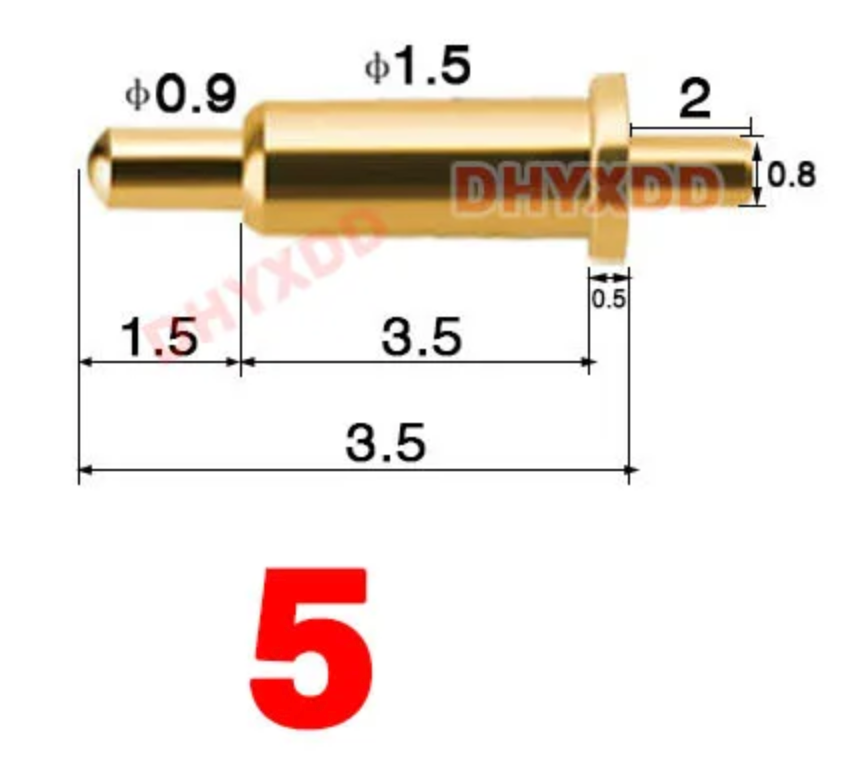
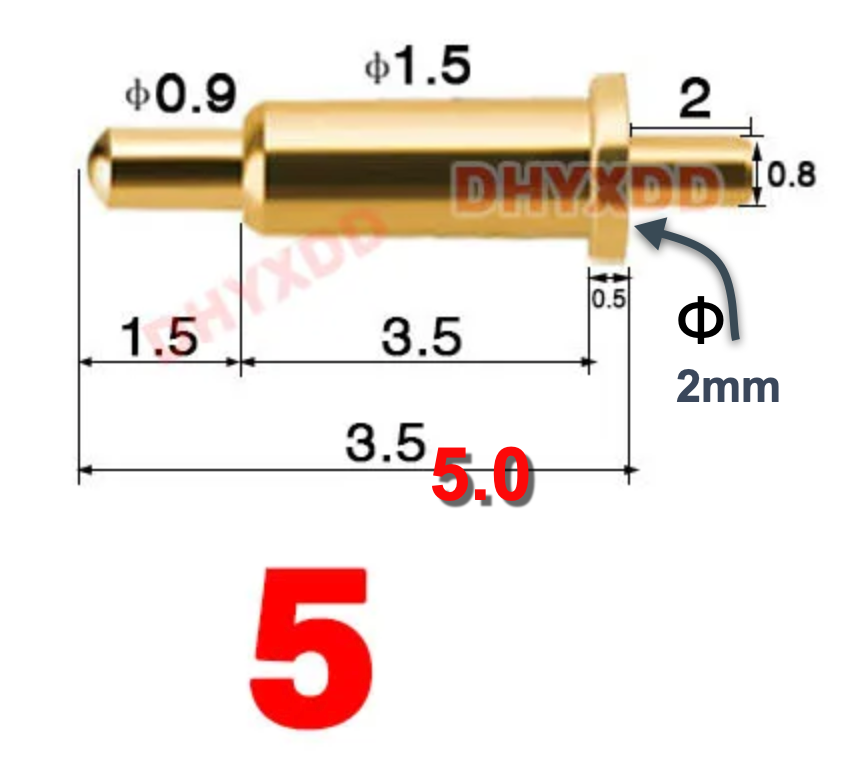
Added documentation.

Changed region(s): [[0.7171, 0.2791, 0.9042, 0.5271], [0.4988, 0.5581, 0.6236, 0.6512]]

diff --git a/README.md b/README.md
@@ -1,2 +1,63 @@
-# greenpak_pogo
-A Pogo pins adapter for in-circuit programming of Renesa's GreenPAK devices.
+# GreenPAK Programming Pogo Probe
+
+This project provides a standard footprint and a pogo probe for in-circuit programming of Renesas GreenPAK 
+devices. This can be used for example in production after populating the board with factory reset GreenPAK devices.
+
+<br>
+
+<img  src="https://raw.githubusercontent.com/zapta/greenpak_pogo/main/www/greenpak_pogo.png"
+      style="display: block;margin-left: auto;margin-right: auto;width: 80%;" />
+
+Highlights:
+
+* Small footprint.
+* In expensive (e.g. compared to Tag Connect)
+* Can be used with any QWIIC masters as a probrammer.
+* Can provide power to the programmed device.
+* A single programming socket can support multiple GreenPAK devices on the same board.
+
+# Pogo pins
+
+We use common pogo pins from Aliexpress, the 5mm ones from https://www.aliexpress.us/item/3256803830386881.html. The diagram belows shows the advertised dimensions on Aliexpress, note that there are two 3.5mm dimensions, the longer of the two is actually 5mm. Also, the diameter of the base is 2mm.
+
+![Footprint](www/pogo_pin_dimensions.png)
+
+# Connector
+
+The connector is JST SH 1.5mm 4pin, SMD, horizontal, and is common on Aliexpress as well as short cables with matching QWIIC connectors on both ends. This is the same connector that is used by the QWIIC and STEMMA QT eco system and follows their pinout.  
+
+Note that this pinout is differnet from the one used on the Renesas programmer.
+
+# Power jumper
+
+The solder jumper on the pogo probe allows to connect or disconnect the VCC power of the programmer and the programmed board. By default it's disconnected and if needed, you can connect it with a drop of solder. 
+
+# Programming socket
+
+Kicad comaptible symbol and footprint for the programming socket are available in the kicad directory of this repository.
+
+Schematic symbol:
+
+![Footprint](www/symbol.png)
+
+PCB footprint:
+
+![Footprint](www/footprint.png)
+
+# Programming
+
+We use a boards that are compatible with the Python ``i2c_adapter`` packge and the Python ``greenpak`` to program the boards. For example, if you use the SparkFun Pro Micro - RP2040 which contains a QWIIC connector, you can use a standard QWIIC cable to connect it to the pogo probe. Programming typically taks about 1 sec such that placing and holding the probe and hitting the program key is straight forward.
+
+# Pin pattern
+
+This pin patter was selected with these goals
+
+* Small footprint.
+* Non symetric, with only one right way to connect it.
+* If power from the probe is not used, it can be reduced to 3 pins probe.
+
+# PCB order
+
+The gerber file of the Pogo Probe is available under the JLCPCB directory. Smaller boards like this typically benefit from a thinner PCB (e.g. 1mm instead of 1.6mm) but we use 1.6mm for better mechanical support and easier holding.
+
+
